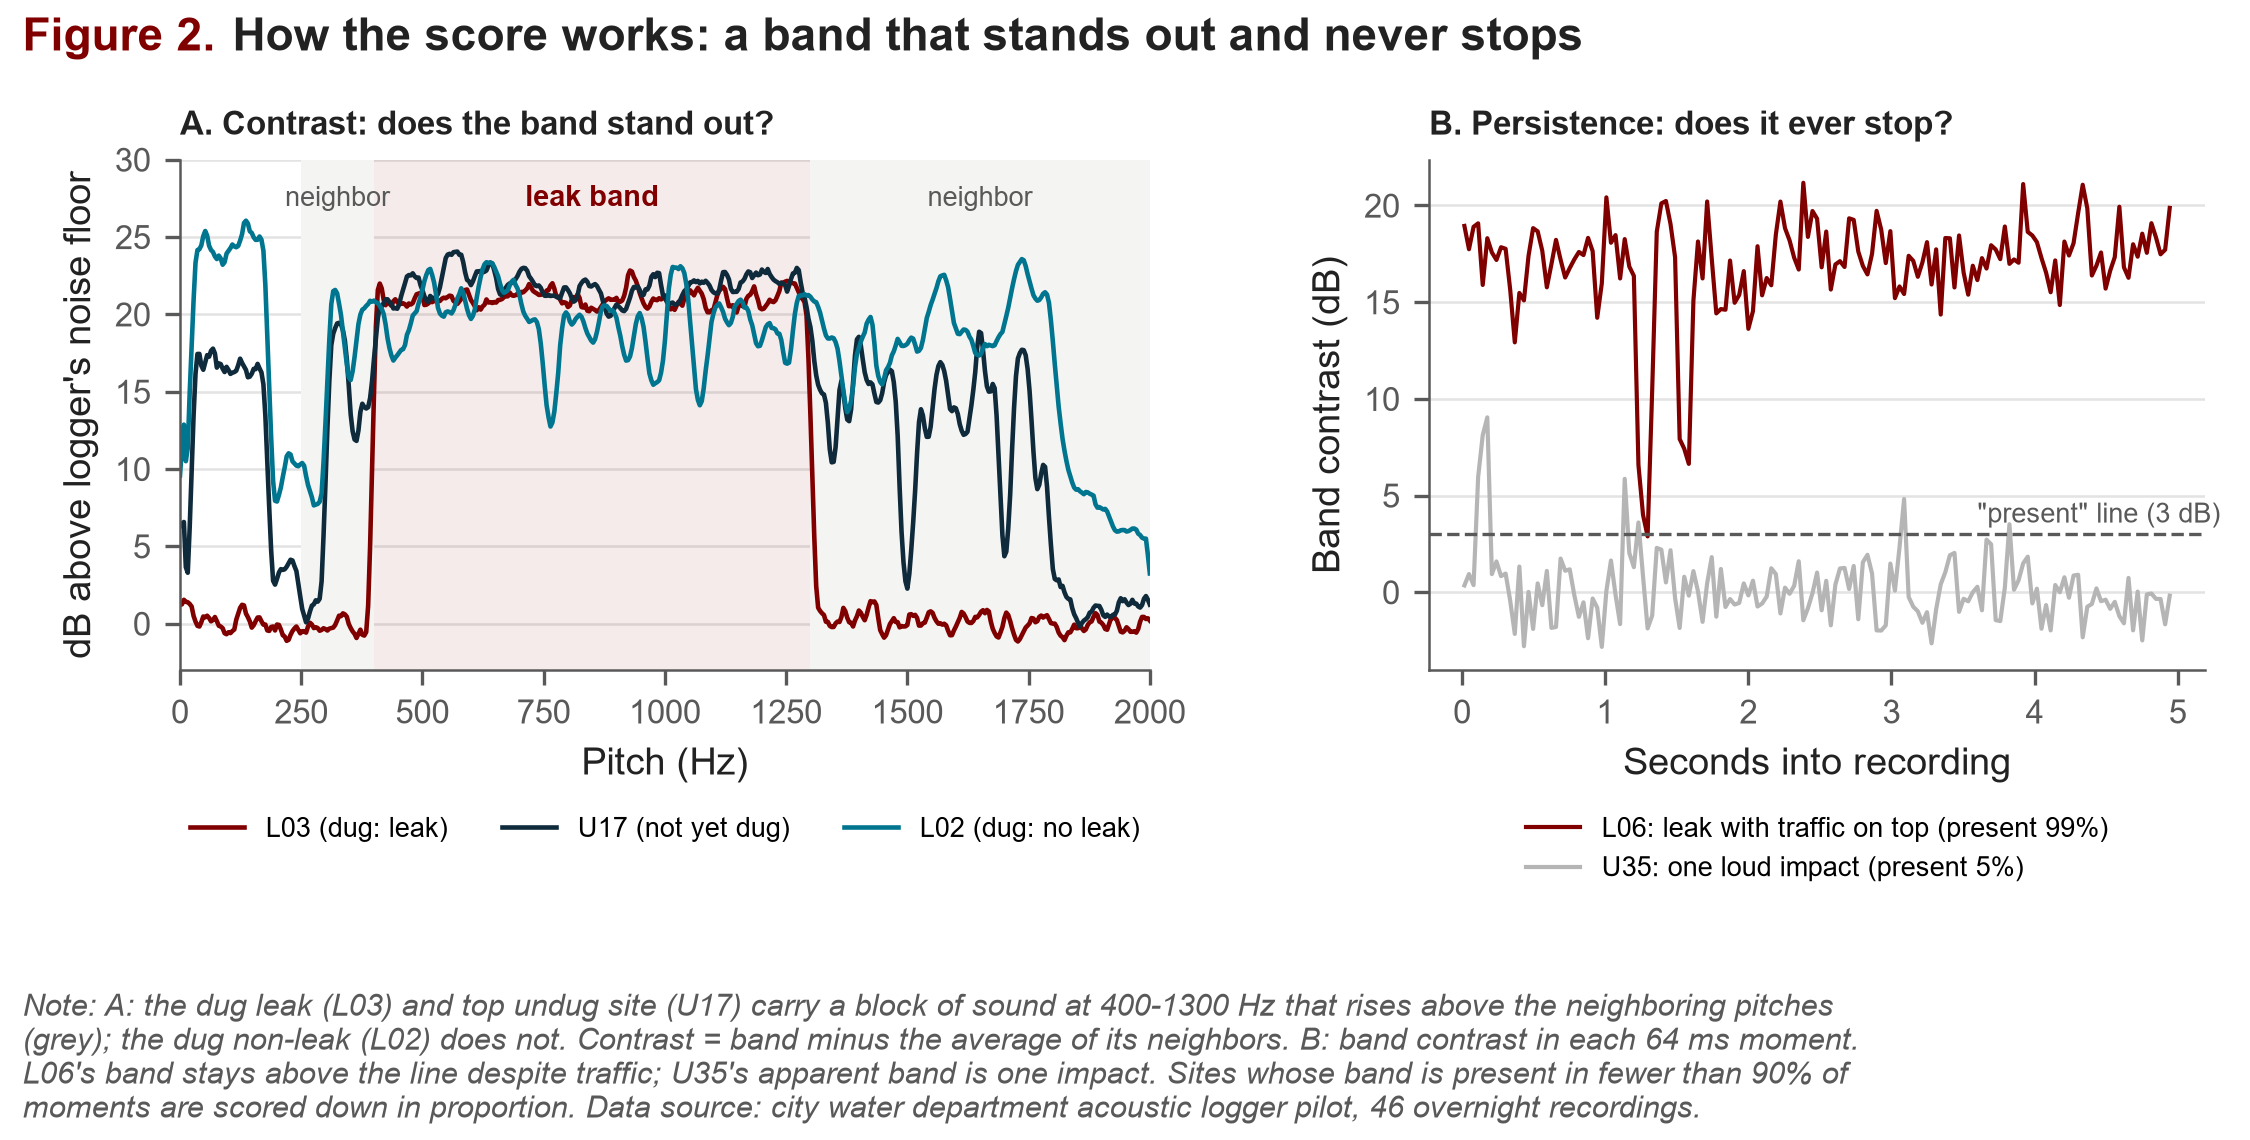
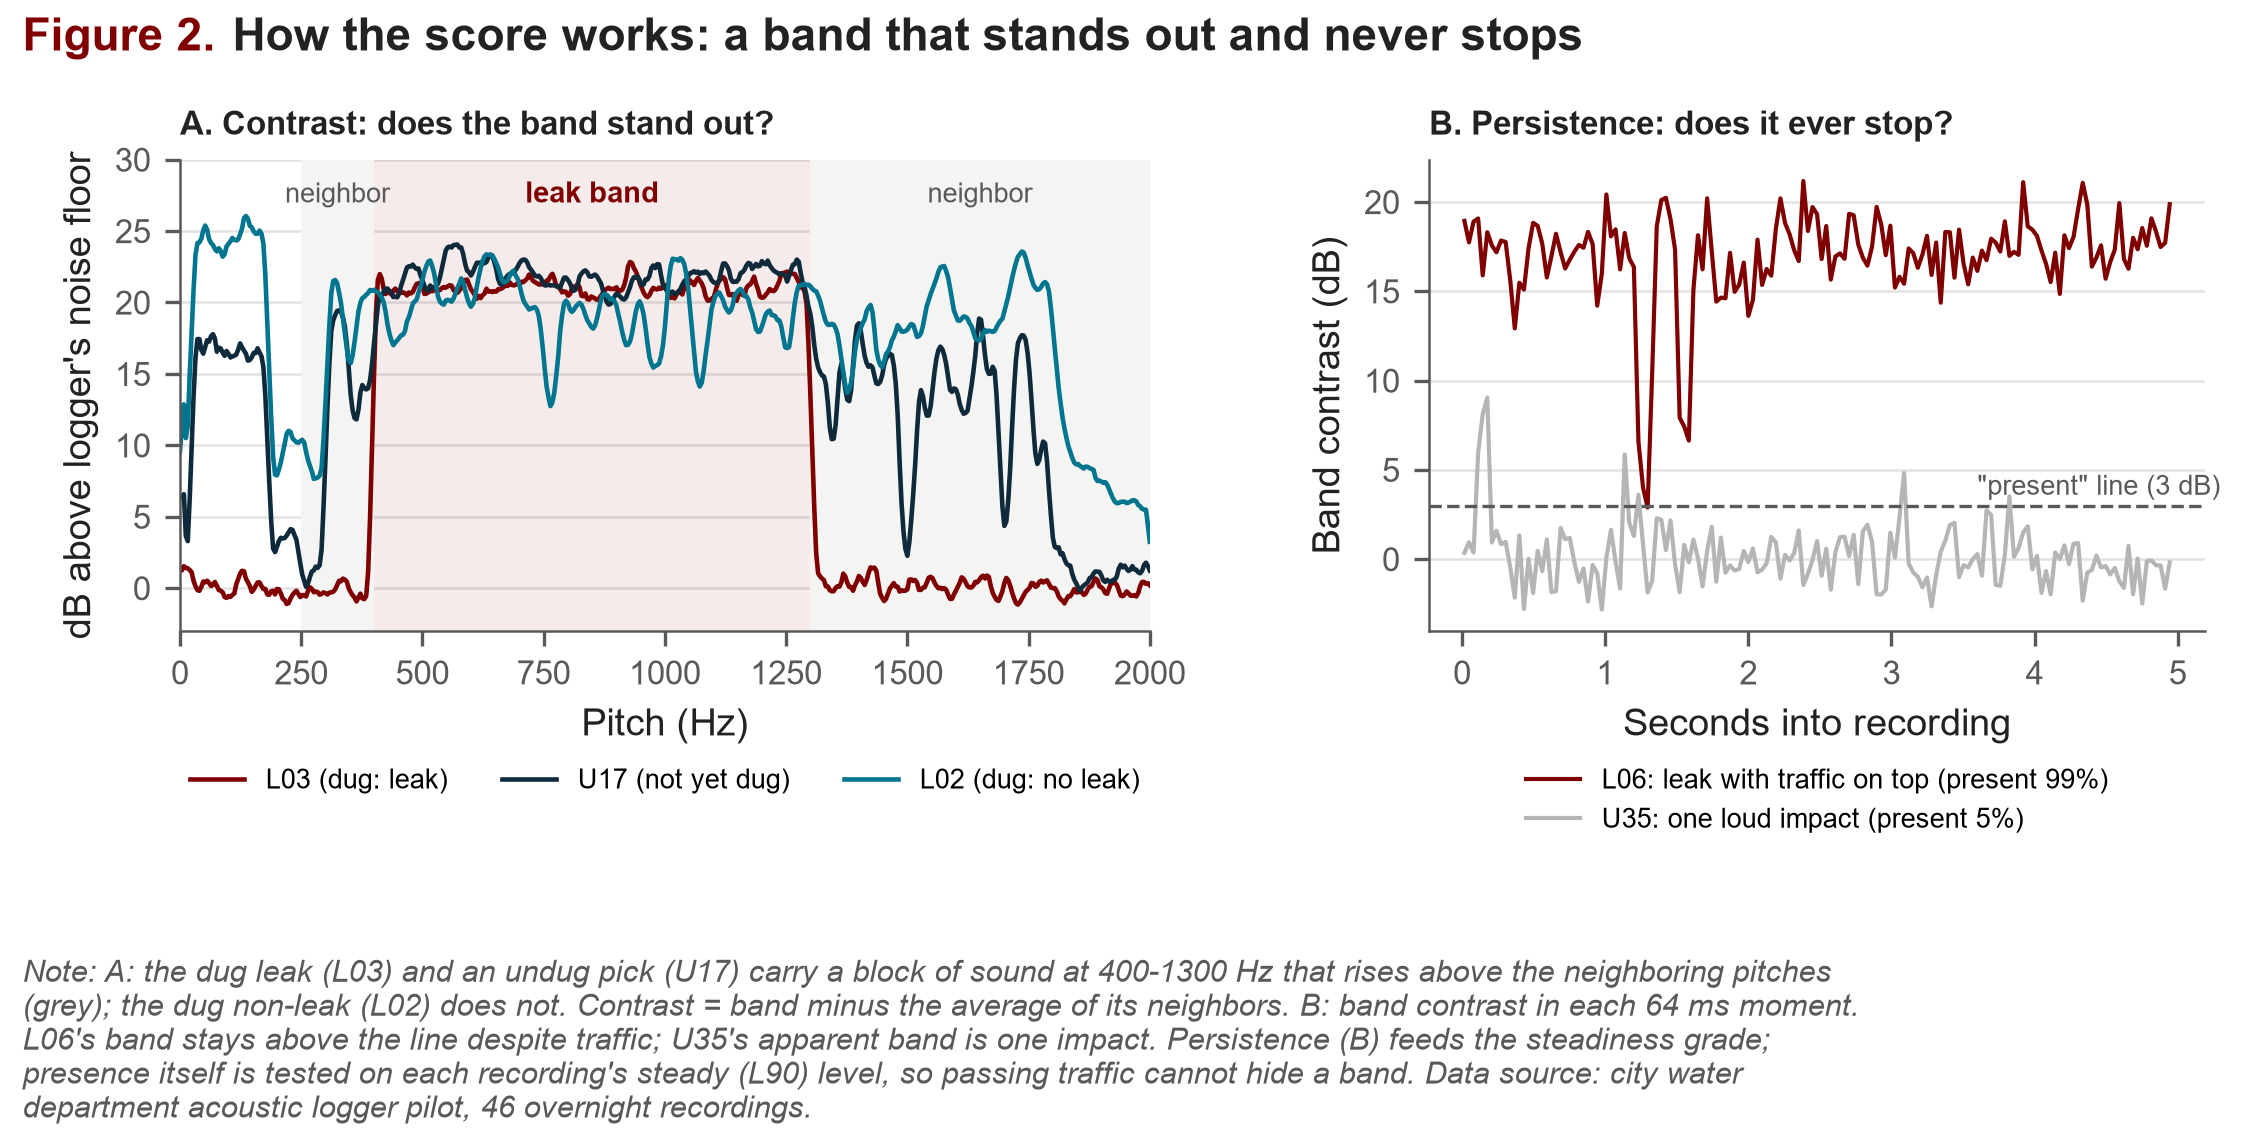
Update figure captions and notes to match the final Model 1
- Model 1 figures: dig-list reasons use detected band edges and net band
  level; note the U07/U17 tie; decision map rings sites that pass the
  steady-band presence test; robustness-grid caption rewritten from the
  final grid; Fig 1 height scales with its rows.
- Model 2 figures: add U03 to the PVC discount note; revise Fig 6 caption
  and title.
- Notes: final-model entry for assumption A8; U03 added to the PVC
  sanity-check note; correct the README limitation on U03.

diff --git a/src/plot_model1_results.py b/src/plot_model1_results.py
@@ -84,6 +84,9 @@ CLUSTER_COLUMNS = {'kmeans_k3': 'k-means, 3 groups',
                    'kmeans_k4': 'k-means, 4 groups',
                    'ward_k3': 'Ward, 3 groups', 'ward_k4': 'Ward, 4 groups'}
 EXTRA_GRID_ROWS = 4
+# Fig 1 height grows with the number of rows so labels do not overlap.
+DIG_LIST_BASE_HEIGHT = 1.9
+DIG_LIST_ROW_HEIGHT = 0.62
 # Hand-placed label offsets (points) where default labels collide.
 DECISION_MAP_LABEL_OFFSETS = {'U34': (4, -12), 'L01': (-6, 6),
                               'L05': (6, -12), 'L02': (5, 5),
@@ -93,14 +96,15 @@ SECONDS_PER_FRAME = (SPECTROGRAM_SEGMENT_SAMPLES
 
 
 def _reason(record, is_dig):
-    """One-line reason for a dig-list site."""
+    """One-line reason for a dig-list site (band edges and net level)."""
+    band = (f'{record.measured_band_low_hz:.0f}-'
+            f'{record.measured_band_high_hz:.0f} Hz')
     if record.ranking == 'pvc':
-        lead = 'Informative dig' if is_dig else 'Second PVC band'
-        return (f'{lead}: steady 250-400 Hz band (+{record.score:.1f} dB,\n'
-                f'present {record.persistence:.0%}); PVC signature '
-                f'unconfirmed')
-    return (f'Steady 400-1,300 Hz leak band (+{record.score:.1f} dB,\n'
-            f'present {record.persistence:.0%}), like the dug leaks')
+        lead = 'Informative dig' if is_dig else 'Other PVC band'
+        return (f'{lead}: steady {band} band ({record.corrected_level_db:.0f}'
+                f' dB\nnet of neighbors); PVC signature unconfirmed')
+    return (f'Steady {band} leak band ({record.corrected_level_db:.0f} dB\n'
+            f'net of neighbors), like the dug leaks')
 
 
 # ---------------------------------------------------------------------------
@@ -113,7 +117,8 @@ def plot_dig_list(probabilities):
     next_up = probabilities[(probabilities['prediction'] == 1)
                             & probabilities['dig_priority'].isna()]
     rows = pd.concat([dig, next_up])
-    fig, ax = plt.subplots(figsize=(7.5, 4.3))
+    fig, ax = plt.subplots(figsize=(7.5, DIG_LIST_BASE_HEIGHT
+                                    + DIG_LIST_ROW_HEIGHT * len(rows)))
     positions = np.arange(len(rows))[::-1]
     for position, record in zip(positions, rows.itertuples()):
         is_dig = not np.isnan(record.dig_priority)
@@ -157,14 +162,16 @@ def plot_dig_list(probabilities):
     ax.set_xlabel('Estimated chance of a leak', x=0.24)
     bottom = add_title_and_note(
         fig, 1, 'Where to dig this week, and how sure we are',
-        'Presence of a persistent band sets the range (36-50% with one, '
-        '2-3% without); the marker sits within it by band quality '
-        '(steadiness over time and across pitch, weighted 0.6, and '
-        'intenseness, contrast in dB, weighted 0.4, each relative to the dug '
-        'leaks). PVC sites are discounted toward the 1-in-8 base rate by the '
-        'share of five leak-signature properties their band shares (U34: '
-        '3 of 5). Bars span analysis choices; a wide bar means the band '
-        'falls below a cut-off in the raw-spectrum version. '
+        'Presence of a steady band (found on each recording\'s steady, '
+        'L90, level) sets the range (36-50% with one, 2-3% without); the '
+        'marker sits within it by band quality (steadiness over time and '
+        'across pitch, weighted 0.6, and intenseness, the band\'s level net '
+        'of its neighbors, weighted 0.4, each relative to the dug leaks). '
+        'U07 and U17 are tied; band strength sets their order only. PVC '
+        'sites are discounted toward the 1-in-8 base rate by the share of '
+        'five leak-signature properties their band shares (U34: 3 of 5; '
+        'U15 and U03: 2 of 5). Bars span analysis choices; a wide bar means '
+        'the band falls below a cut-off in the raw-spectrum version. '
         f'{ANALYSIS_EXCLUSION_REASON}')
     fig.subplots_adjust(top=0.88, bottom=bottom, left=0.1, right=0.98)
     return save_figure(fig, MODEL_FIGURE_DIR, 'model1_fig1_dig_list')
@@ -223,14 +230,15 @@ def plot_how_score_works(inputs, leak_band_hz):
     fig.subplots_adjust(wspace=0.32)
     bottom = add_title_and_note(
         fig, 2, 'How the score works: a band that stands out and never stops',
-        'A: the dug leak (L03) and top undug site (U17) carry a block of '
+        'A: the dug leak (L03) and an undug pick (U17) carry a block of '
         f'sound at {band_hz[0]:.0f}-{band_hz[1]:.0f} Hz that rises above the '
         'neighboring pitches (grey); the dug non-leak (L02) does not. '
         'Contrast = band minus the average of its neighbors. B: band '
         'contrast in each 64 ms moment. L06\'s band stays above the line '
-        'despite traffic; U35\'s apparent band is one impact. Sites whose '
-        'band is present in fewer than 90% of moments are scored down in '
-        'proportion.')
+        'despite traffic; U35\'s apparent band is one impact. Persistence '
+        '(B) feeds the steadiness grade; presence itself is tested on each '
+        'recording\'s steady (L90) level, so passing traffic cannot hide a '
+        'band.')
     fig.subplots_adjust(top=0.86, bottom=bottom + 0.1, left=0.08,
                         right=0.98)
     return save_figure(fig, MODEL_FIGURE_DIR, 'model1_fig2_how_score_works')
@@ -246,7 +254,8 @@ def plot_decision_map(scores, probabilities):
     ax.add_patch(Rectangle((PERSISTENT_BAND_MIN_CONTRAST_DB,
                             PERSISTENCE_CUTOFF), 30, 0.2,
                            color=FRESNO_BAND_BLUE, zorder=0, linewidth=0))
-    ax.text(23.5, PERSISTENCE_CUTOFF - 0.035, 'persistent band\n(leak-like)',
+    ax.text(23.5, PERSISTENCE_CUTOFF - 0.035,
+            'present in 90% of\n64 ms frames',
             ha='right', va='top', fontsize=SMALL_FONT_SIZE,
             color=HEALTH_LAB_TEAL,
             fontweight='bold')
@@ -260,6 +269,10 @@ def plot_decision_map(scores, probabilities):
                        marker=marker, s=34 if group == 'unlabeled' else 70,
                        color=color, edgecolor='white', linewidth=0.5,
                        zorder=3)
+    steady = main[main['has_band'].astype(bool)]
+    ax.scatter(steady['contrast_db'], steady['persistence'], s=150,
+               facecolor='none', edgecolor=TEXT_DARK, linewidth=0.9,
+               zorder=4)
     flagged = set(probabilities.loc[probabilities['prediction'] == 1,
                                     'clip_id'])
     to_label = main[main['label_group'].isin(DUG_LABELS)
@@ -290,7 +303,10 @@ def plot_decision_map(scores, probabilities):
         Line2D([], [], marker='o', linestyle='', color=HEALTH_LAB_NAVY,
                label='Cast iron, not dug (400-1,300 Hz band)'),
         Line2D([], [], marker='^', linestyle='', color=HEALTH_LAB_LIGHT_TEAL,
-               label='PVC, not dug (250-400 Hz band)'),
+               label='PVC, not dug (low band)'),
+        Line2D([], [], marker='o', linestyle='', markerfacecolor='none',
+               markeredgecolor=TEXT_DARK, markersize=9,
+               label='Steady band found (presence test)'),
         Line2D([], [], marker='o', linestyle='', color=LABEL_COLORS[
             LEAK_LABEL], label='Dug: leak'),
         Line2D([], [], marker='o', linestyle='', color=LABEL_COLORS[
@@ -301,10 +317,13 @@ def plot_decision_map(scores, probabilities):
         'leaks',
         'Each point is one recording (noise floor removed). Cast-iron sites '
         'are measured on the 400-1,300 Hz leak band, PVC sites on the '
-        '250-400 Hz band. The shaded corner (band present in at least 90% of '
-        'moments and standing out by at least 3 dB) holds all three dug '
-        'leaks, no dug non-leak, four undug cast-iron sites and two PVC '
-        f'sites. {ANALYSIS_EXCLUSION_REASON}')
+        '250-400 Hz band. Rings mark sites that pass the presence test (a '
+        'steady band in the recording\'s L90 level): all three dug leaks, '
+        'no dug non-leak, four undug cast-iron sites and three PVC sites. '
+        'U03 passes although traffic masks its band in about a quarter of '
+        '64 ms frames (present 76%), so it sits below the shaded '
+        'frame-rule corner. '
+        f'{ANALYSIS_EXCLUSION_REASON}')
     fig.subplots_adjust(top=0.9, bottom=bottom, left=0.12, right=0.98)
     return save_figure(fig, MODEL_FIGURE_DIR, 'model1_fig3_decision_map')
 
@@ -387,13 +406,15 @@ def plot_robustness_grid(grid, pipe_by_clip):
               fontsize=ANNOTATION_FONT_SIZE)
     bottom = add_title_and_note(
         fig, 4, 'Which picks survive every check?',
-        '"Flagged" means a persistent band (Model 1 columns) or membership '
-        'in the cluster holding the dug leaks (clustering columns). Leave-'
-        'one-out rebuilds the cast-iron band without each dug site; it does '
-        'not apply to PVC, whose band is fixed in advance. U17 is flagged '
-        'under every check; U07 under all but two clusterings. U08 and U36 '
-        'fall just under the 3 dB line in the raw version, and U15\'s band '
-        'drops below 90% presence there.')
+        '"Flagged" means a band passes the presence test (main version: a '
+        'steady band in the L90 level; raw version and leave-one-out: band '
+        'in 90% of 64 ms frames) or membership in the cluster holding the '
+        'dug leaks (clustering columns). Leave-one-out rebuilds the '
+        'cast-iron band without each dug site; it does not apply to PVC, '
+        'whose band does not depend on the dug sites. U17 is flagged under '
+        'every check; U07 under all but two clusterings. U08 and U36 fall '
+        'below a cut-off in the raw version, as do U15 and U03; only U34 '
+        'of the PVC sites is flagged in both versions.')
     fig.subplots_adjust(top=0.85, bottom=bottom + 0.12, left=0.16,
                         right=0.98)
     return save_figure(fig, MODEL_FIGURE_DIR, 'model1_fig4_robustness_grid')

diff --git a/src/plot_model2_results.py b/src/plot_model2_results.py
@@ -141,8 +141,8 @@ def plot_s_curve(fits, scores, model2):
         'raw-spectrum scores and with each dug site left out. PVC sites are '
         'read off the curve at their 250-400 Hz score (hollow), then '
         'discounted toward the base rate by the share of leak-signature '
-        'properties their band shares (filled; U34 3 of 5, U15 2 of 5). U40 '
-        'excluded (insufficient data quality).')
+        'properties their band shares (filled; U34 3 of 5, U15 and U03 2 '
+        'of 5). U40 excluded (insufficient data quality).')
     fig.subplots_adjust(top=0.9, bottom=bottom, left=0.1, right=0.98)
     return save_figure(fig, MODEL_FIGURE_DIR, 'model2_fig5_s_curve')
 
@@ -189,16 +189,17 @@ def plot_model_comparison(model1, model2):
     ax.legend(handles=handles, loc='lower right',
               fontsize=ANNOTATION_FONT_SIZE)
     bottom = add_title_and_note(
-        fig, 6, 'Both models flag the same sites but rank them differently',
+        fig, 6, 'The two models flag similar sites but rank them differently',
         'Markers are each model\'s main estimate; bars are its range across '
         'analysis choices; dashed line is the 1-in-8 base rate. Both apply '
-        'the same PVC signature discount. Model 1 gives every cast-iron site '
-        'with a persistent band 36-50% and grades within that by steadiness '
-        '(weighted 0.6) and intenseness (0.4), so those four sites lead. '
-        'Model 2 grades by intenseness alone (contrast in dB): U34 leads, '
-        'U17 and U15 stay '
-        'above the base rate, U07 sits at it, and U08 and U36 fall below '
-        'it. Sites without a persistent band are low under both models.')
+        'the same PVC signature discount. Model 1 gives every site with a '
+        'steady band 36-50% (before the PVC discount) and grades within '
+        'that by steadiness (weighted 0.6) and intenseness net of neighbor '
+        'noise (0.4), so the four cast-iron sites lead. Model 2 grades by '
+        'contrast in dB alone, which traffic lowers: U34 leads, U17 and U15 '
+        'stay above the base rate, U07 sits near it, and U08, U36 and U03 '
+        '(whose contrast traffic lowers to under 1 dB) fall below it. Sites '
+        'without a band are low under both models.')
     fig.subplots_adjust(top=0.9, bottom=bottom, left=0.25, right=0.98)
     return save_figure(fig, MODEL_FIGURE_DIR, 'model2_fig6_model_comparison')
 

diff --git a/notes/modeling/model_assumptions_checklist.md b/notes/modeling/model_assumptions_checklist.md
@@ -63,6 +63,25 @@ These sit underneath every option. If one fails, every model is affected.
       - PVC band sites are discounted by their signature match w, the share
         of 5 leak-signature properties they share: U34 w = 0.6 → 34.9%,
         U15 w = 0.4 → 26.3%. This keeps cast iron ranked above PVC.
+    - **Final model (2026-11-19), superseding the band and intenseness
+      details above:**
+      - Presence for both materials comes from steady-band detection
+        (`src/detect_steady_bands.py`): a steady band in the recording's
+        L90 level (10th percentile over 250 ms frames), distinct from its
+        material's shared background and from both sides. PVC is no longer
+        searched at a fixed 250–400 Hz; the data place all three PVC bands
+        near 320–450 Hz (U34, U15 and newly U03).
+      - Intenseness is the corrected band level: the band's steady power
+        minus its neighbors' (PVC: upper neighbor only), relative to the
+        weakest dug leak and capped at 1. Steadiness is unchanged
+        (persistence over time × coverage across pitch).
+      - Signature match: U34 w = 0.6 → 34.7%; U15 and U03 w = 0.4 → 25.8%
+        and 22.0%.
+      - Caution on A8: the same 320–450 Hz band appears at a cast-iron
+        site (U02) on logger A, the same logger as U34, so on that logger
+        it is not specific to PVC. The PVC grade is also unknown, so the
+        literature can bound but not remove this uncertainty
+        (`notes/research/pvc_attenuation_research.md`, item 3a).
     - The literature-based map from cast-iron to PVC leaks
       (`notes/modeling/sanity_check_pvc_prediction.md`) is **held out of the
       model**. It is used only as an end-of-modeling sanity check.

diff --git a/README.md b/README.md
@@ -101,9 +101,11 @@ down to 2%).
 **Known limitations.** The confidence values sum to 3.4 expected leaks
 across 39 sites, against about 4.9 expected at 1 in 8, so some leaks are
 probably missed (most likely silent, intermittent or distant ones, or on
-PVC). Persistence over time is still counted frame by frame, so traffic
-can mask a band in some frames (U03 has a steady band but scores low on
-persistence). The recordings look synthesized (brick-wall band edges,
+PVC). Steadiness (persistence over time × coverage across pitch) is
+still measured on 64 ms frames and on whole-clip spectra, where traffic
+can hide part of a band: U03 passes the steady-band test, but its band is
+present in 76% of frames and has no coverage in its whole-clip spectrum,
+so it sits at the bottom of the band tier. The recordings look synthesized (brick-wall band edges,
 identical leak levels), so results describe this pilot, not field
 performance.
 

diff --git a/notes/modeling/sanity_check_pvc_prediction.md b/notes/modeling/sanity_check_pvc_prediction.md
@@ -54,6 +54,12 @@ fading toward 1,300 Hz.
 - **Model calls a quiet PVC site "no leak"** (U18–U20, U25, U33): the
   prediction says a distant PVC leak would also look quiet, so "no leak" is
   low confidence, not confirmed.
+- **U03 (added 2026-11-19, final model):** the final model flags U03 for
+  a steady 328–448 Hz band found in its L90 level, but its average
+  spectrum carries energy up to 1,300 Hz, which a PVC leak should not
+  have. The regenerated comparison table
+  (`outputs/tables/5_checks/sanity_pvc_vs_model_calls.csv`) records this
+  as a disagreement: treat U03's call (22%) with extra caution.
 - **U34 and U15:** their band sits below anything a filtered cast-iron leak
   could produce. If they are leaks, the data generator gives PVC leaks a
   different signature. Literature cannot confirm that, and the sharp edges
